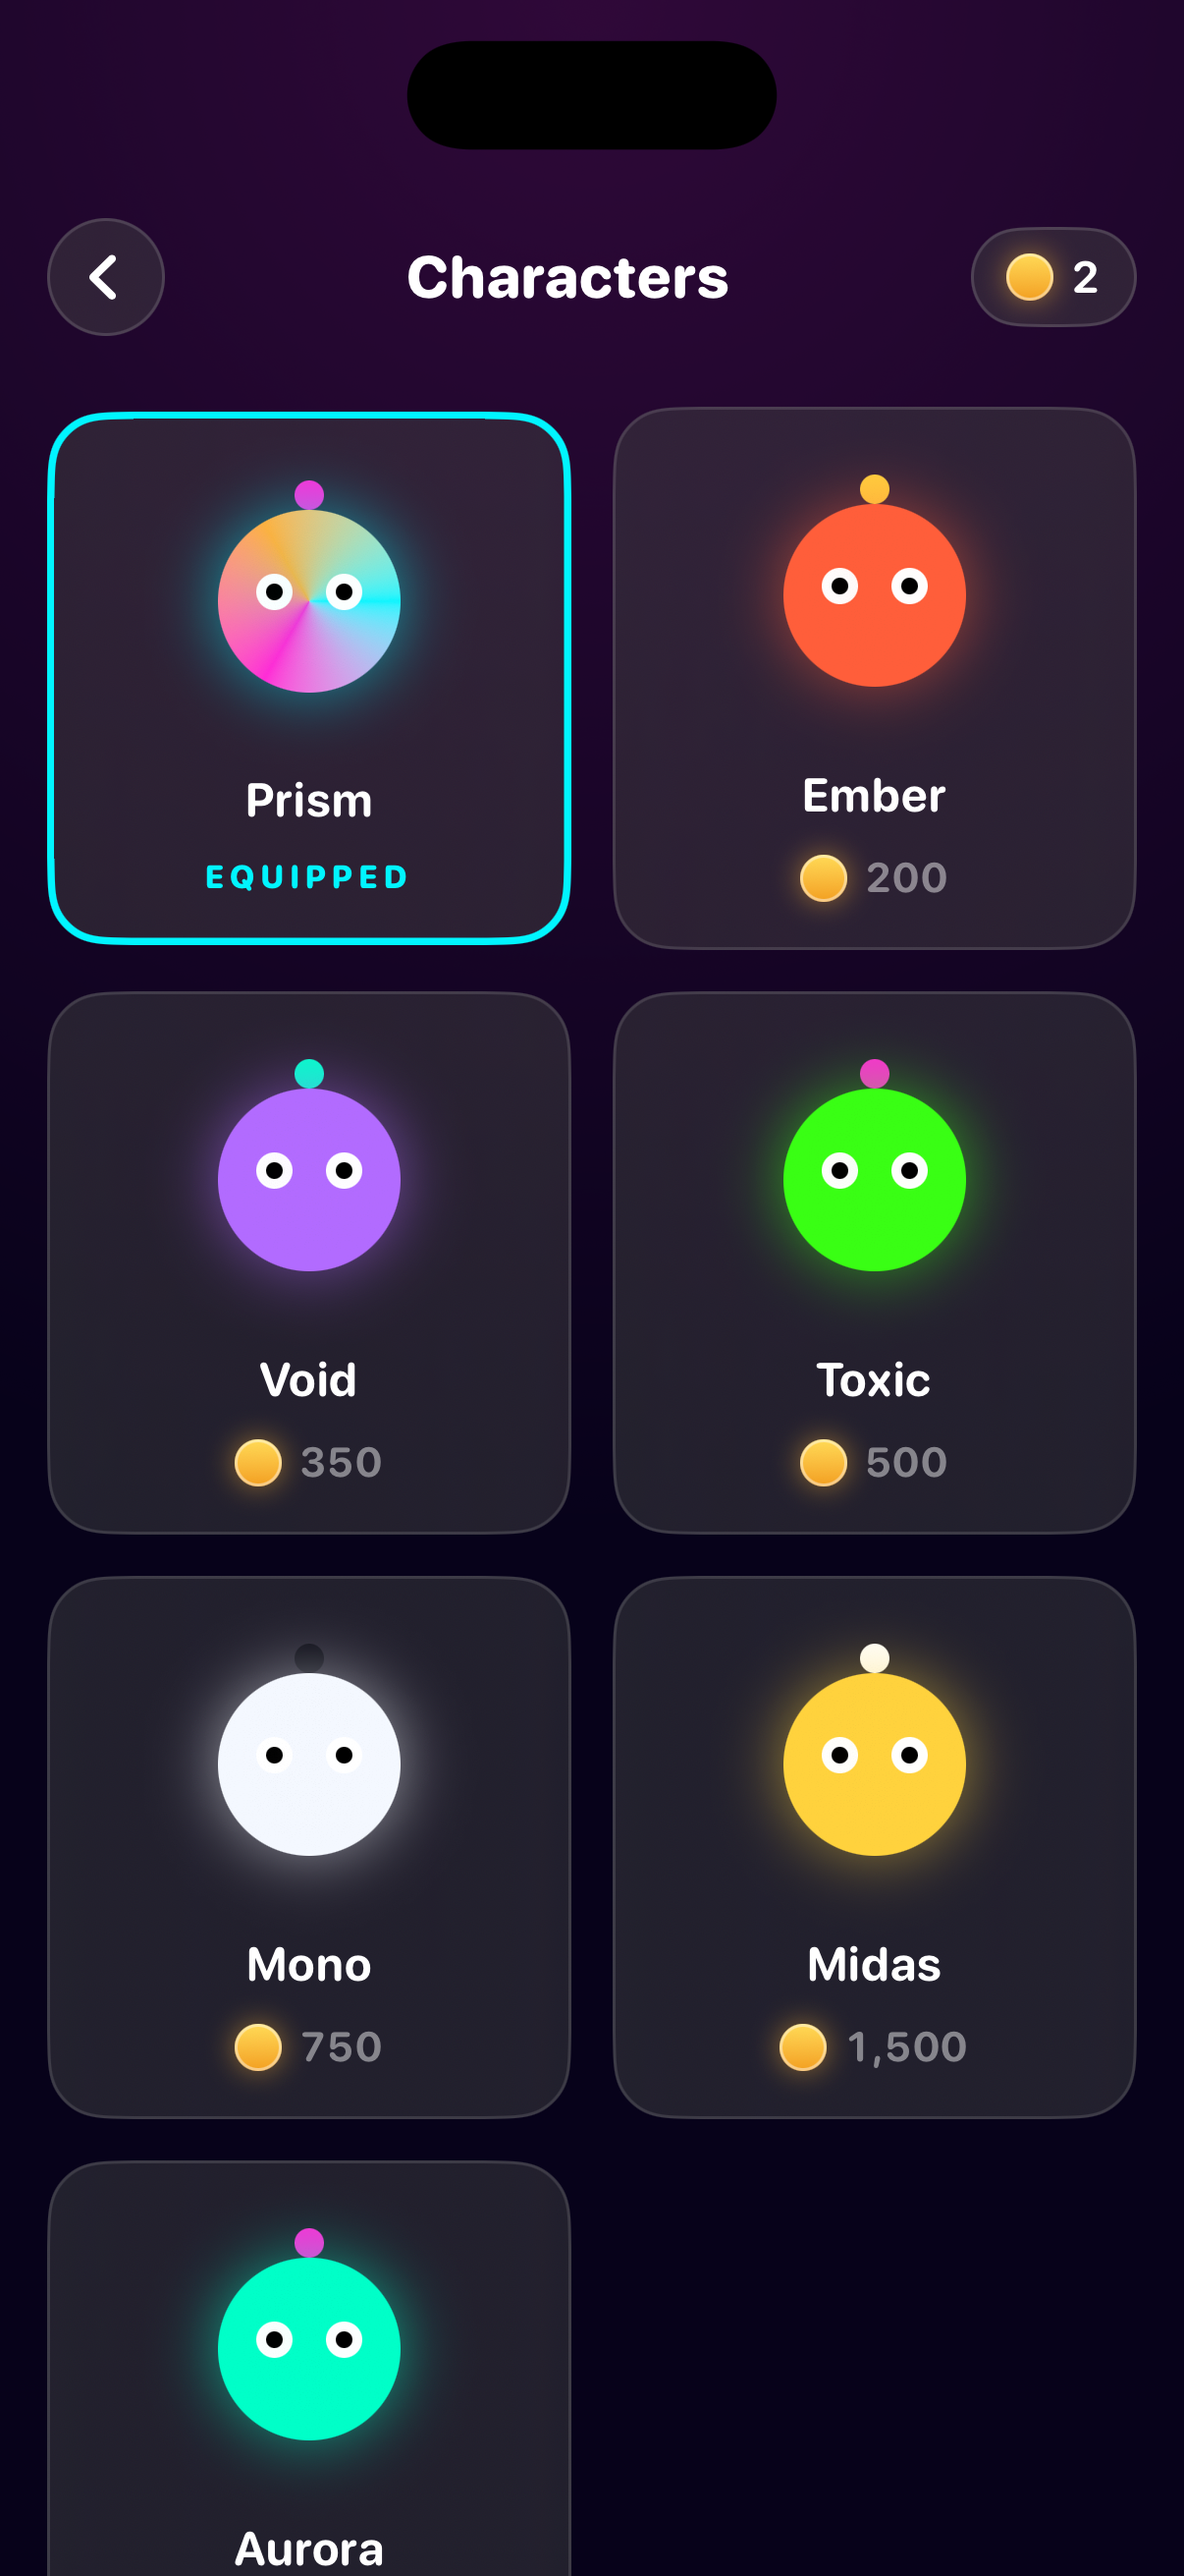
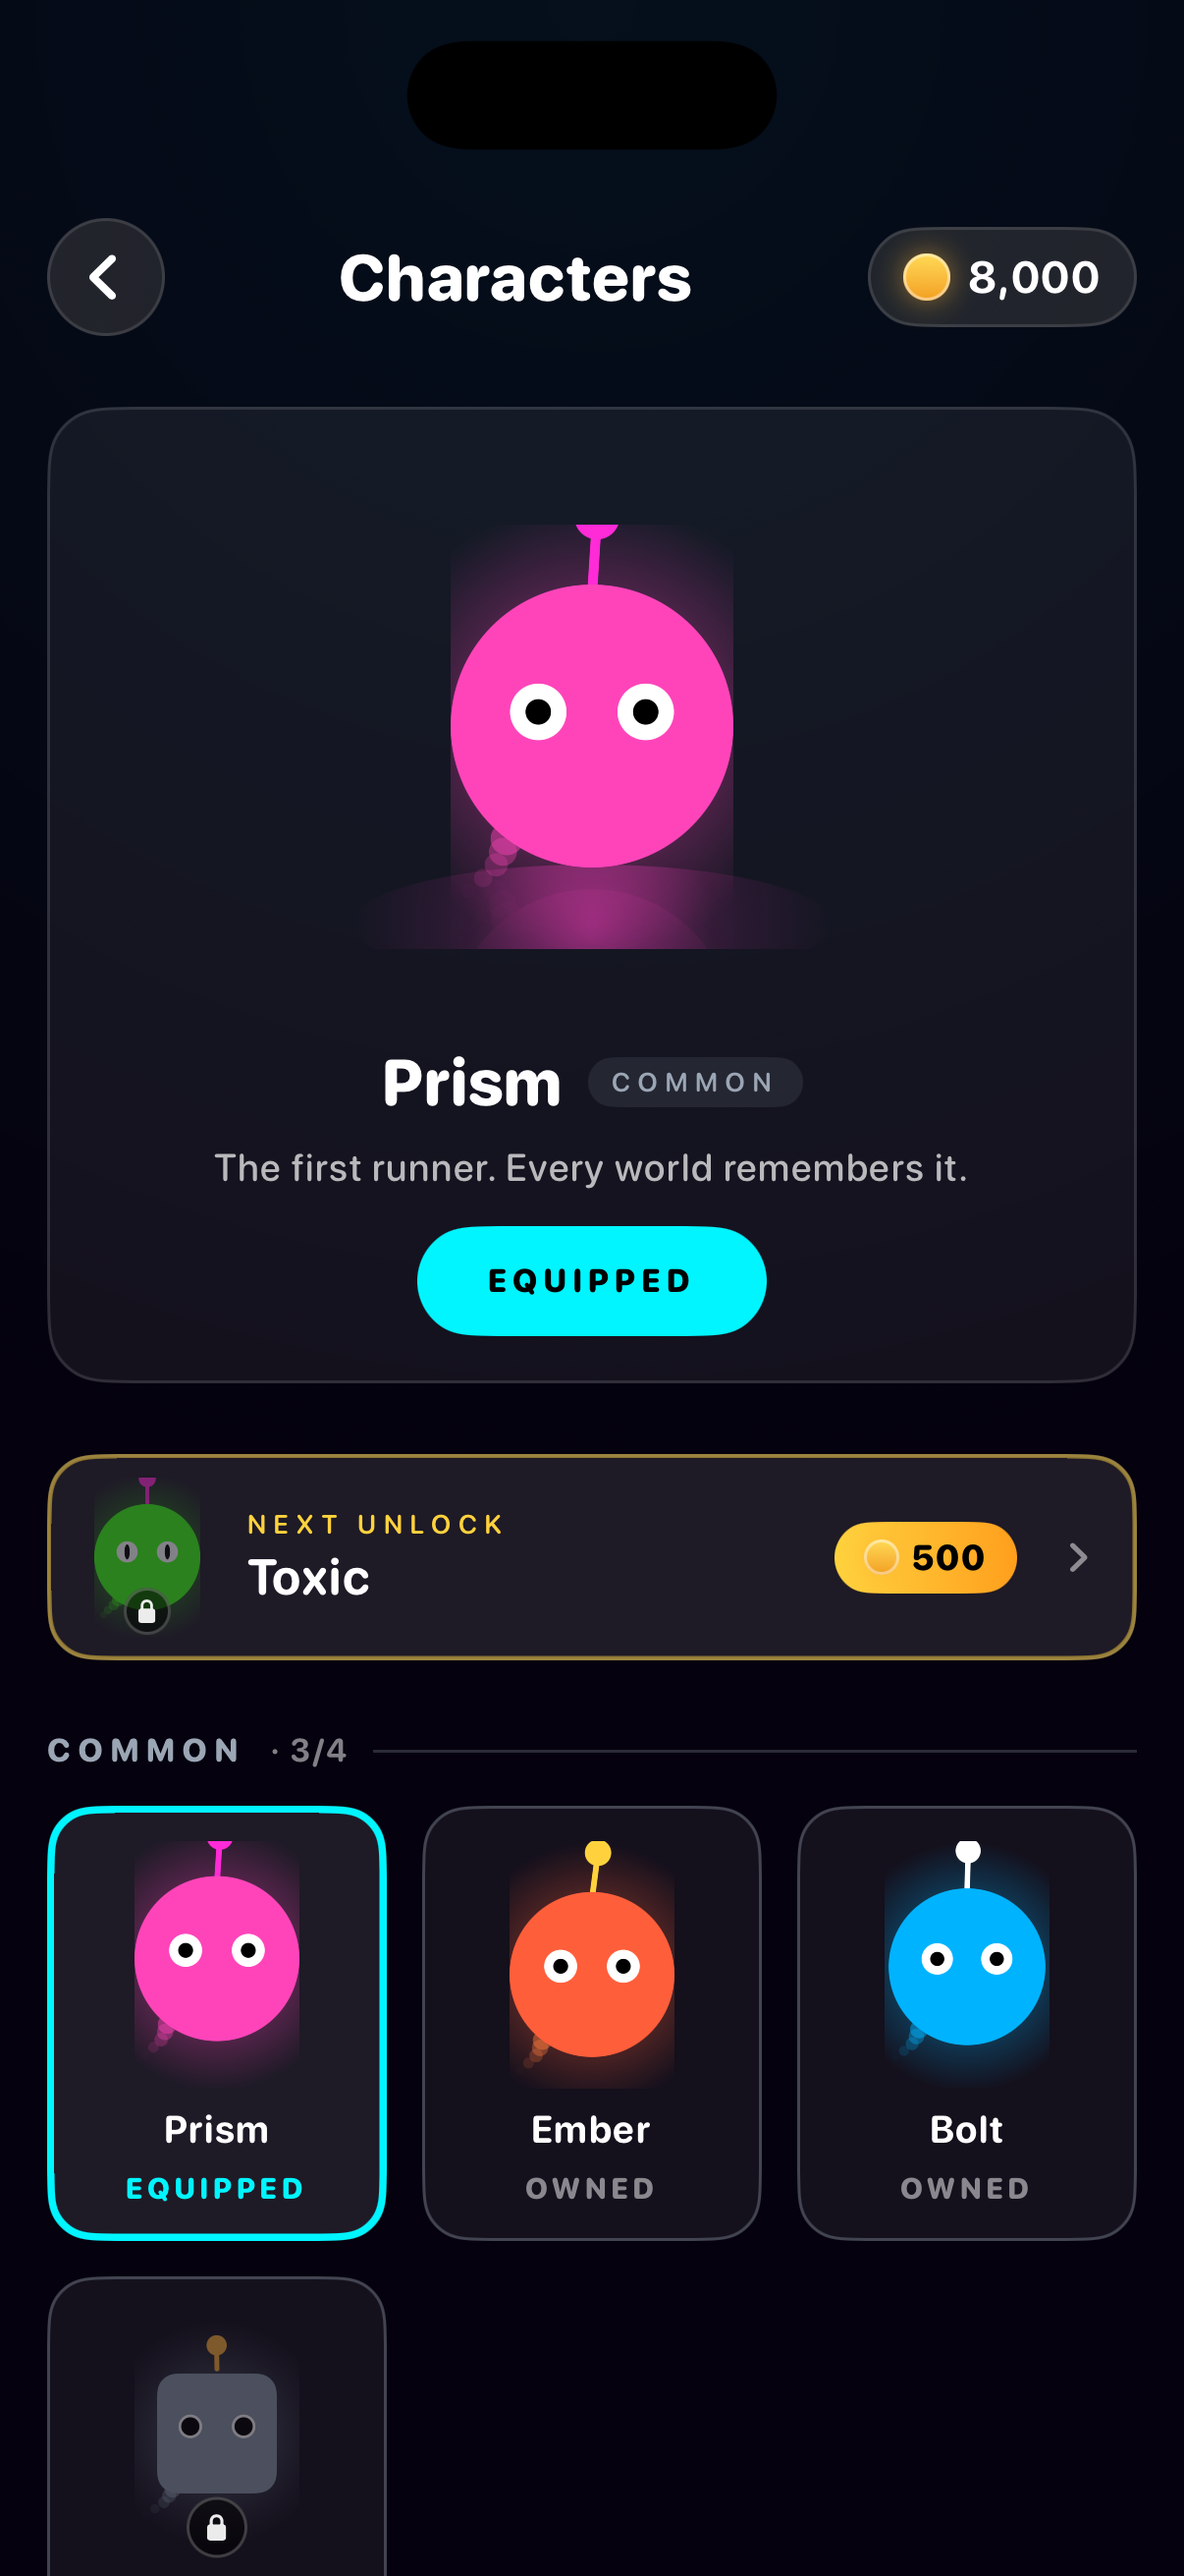
docs(v1.4.3): refresh test counts (174), 24-roster characters shot, state.md final
- README + ci.sh test counts -> 174/174 (163 unit + 11 XCUITest) after this
  session's +16 unit tests (15 ShopValue + 1 deep-cycle music).
- Re-captured docs/screenshots/11_characters.png against current main (24-roster
  characters screen) + caption '7 procedural skins' -> '24 procedural characters'.
- state.md: v1.4.3 plan all 8 steps marked done with the final gate result.

diff --git a/state.md b/state.md
@@ -11,14 +11,21 @@ no spawn-RNG consumption, `DailyChallenge.layoutVersion` unchanged (the sim is u
 
 | Step | Scope | Status |
 |---|---|---|
-| 1 | Doc/claim fixes: README test split (147+11), IAP 5→7, "zero hand-authored binary assets", "material-allocation-free"; `ci.sh` stale Phase-2 comment deleted; SUPERSEDED banners on `AGENT_docs.md` (privacy) + `AGENT_wiring.md` (daily board) | ✅ done |
-| 2 | **The worlds — distance-driven evolution** (M1): palette/decor/sky/music keyed off absolute `worldOrdinal`, not `% 3`; `min(cycle,2)` clamps removed; per-cycle hue rotation + richening; WorldPreviewCanvas mirrored | ⏳ |
-| 3 | macOS CI job (build app + unit bundle on macos-latest) | ⏳ |
-| 4 | Cheap test gaps: IAPManager value-badge math + availability transitions; pure view-logic helpers | ⏳ |
-| 5 | Dynamic Type: ProfileView/HowToPlayView/PauseOverlay → typeScale | ⏳ |
-| 6 | Solvability deep-soak seed count raise | ⏳ |
-| 7 | heroShell generic (M6); revive() power-up inconsistency (L1); Apple user id → Keychain (L3) | ⏳ |
-| 8 | Re-capture README screenshots (Mac-only) | ⏳ |
+| 1 | Doc/claim fixes: README test split (147+11), IAP 5→7, "zero hand-authored binary assets", "material-allocation-free"; `ci.sh` stale Phase-2 comment deleted; SUPERSEDED banners on `AGENT_docs.md` (privacy) + `AGENT_wiring.md` (daily board) | ✅ `4b9..` |
+| 2 | **The worlds — distance-driven evolution** (M1): `Theme.evolvedPalette(ordinal:)` (hue-rotate ~49°/cycle + intensify + cycle-tier name) drives playfield/decor/previews/UI; `WorldSky` re-tint registry recolors set pieces per cycle at each boundary; `min(cycle,N)` clamps removed; `Synth.step` layers voices by cycle (fed `worldOrdinal`). Cycle 0 byte-identical. Evidence `reports/shots/v143/` (Caverns w1→4→7 teal→blue→violet). SPM 145✓, Mac BUILD OK. **No Core/ edits, no RNG, layoutVersion unchanged.** | ✅ 3 commits |
+| 3 | macOS CI job (`.github/workflows/ios-build.yml`): macos-15, newest Xcode, xcodegen, `build-for-testing` (generic iOS Simulator — compiles renderer/audio/SwiftUI/StoreKit) + `PrismRushTests` unit bundle. Locally validated (`build-for-testing` → TEST BUILD SUCCEEDED); first push confirms the hosted runner. | ✅ |
+| 4 | Pure `Meta/ShopValue.swift` (added to Package.swift): `coinsPerUnit`/`badge`, `featuredSkin`, `StoreState`+`StoreAvailability.afterLoad/afterThrow`. ShopView/IAPManager delegate (`Availability` = typealias). 15 Linux tests in `ShopValueTests`. | ✅ |
+| 5 | Dynamic Type: `@ScaledMetric`-backed `Theme.scaledFont(size:weight:design:)`; all 35 hardcoded `.system(size:)` in ProfileView/HowToPlay/Pause migrated (copySize left to avoid double-scale). | ✅ |
+| 6 | Deep solvability soak 10 → 64 seeds × 12,000 m (still ~5 s, bot green). | ✅ |
+| 7 | `heroShell` generic (10 AnyView dropped); `revive()` comment honest (boost/flow reset, magnet/doubler/chrono carry over by design); Apple id + name → Keychain (`Services/Keychain.swift`, one-time UserDefaults migration). | ✅ |
+| 8 | Re-captured `docs/screenshots/11_characters.png` (current 24-roster) + caption fix; deep-world evolution evidence in `reports/shots/v143/`. Full curated 13-shot walkthrough re-capture left as optional polish (cycle-0 worlds unchanged so existing world shots stay accurate). | ✅ (partial) |
+
+**Final gate (v1.4.3):** Full Mac `xcodebuild test` → **TEST SUCCEEDED, 174/174** (163 unit + 11
+XCUITest, iPhone 17 Pro · iOS 26.5). SPM `swift test -c release` 160 green incl. 200-seed bot + the
+widened 64-seed deep soak. Mac `./Tools/build.sh` BUILD OK. **No Core/ sim-logic change, no spawn
+RNG consumed, `DailyChallenge.layoutVersion` unchanged** — the worlds work is purely visual/audio.
+Outstanding (human-only): the on-device feel pass (§v1.3 checklist) + App Store Connect gates
+(`docs/SHIP_CHECKLIST.md`); the new macOS CI job's first hosted run to confirm the runner toolchain.
 
 ## v1.4.2 — owner decrees enforced (AUDIT_intent fix fleet, 2026-06-11)
 The six owner decrees landed in `CLAUDE.md` (product law, overriding every design doc) together

diff --git a/README.md b/README.md
@@ -66,7 +66,7 @@ checkpoints, secure accounts, and friends competition — driven by an `@Observa
 
 <table>
 <tr>
-<td align="center"><img src="docs/screenshots/11_characters.png" width="200"><br><sub><b>Characters</b><br>Buy/equip 7 procedural skins with coins</sub></td>
+<td align="center"><img src="docs/screenshots/11_characters.png" width="200"><br><sub><b>Characters</b><br>Buy/equip 24 procedural characters (rarity tiers, coin/level/IAP unlocks)</sub></td>
 <td align="center"><img src="docs/screenshots/12_shop.png" width="200"><br><sub><b>Shop</b><br>StoreKit 2 IAP — coin packs, Double Coins, premium skin</sub></td>
 <td align="center"><img src="docs/screenshots/13_worlds.png" width="200"><br><sub><b>Worlds</b><br>Checkpoint start from any reached world</sub></td>
 </tr>
@@ -233,7 +233,7 @@ calmer first run (tutorial gate covers every run entrance, the info X never forc
 WORLDS card teaches the 800 m transition, tutorial numbers derive from `Tuning` so a retune can't
 strand the copy).
 
-**Verification:** `./Tools/ci.sh` **158/158** (147 unit + 11 XCUITest) · evidence in
+**Verification:** `./Tools/ci.sh` **174/174** (163 unit + 11 XCUITest) · evidence in
 [`reports/shots/v14/`](reports/shots/v14/), `v141/`, `v142/` (incl. one autoplay run crossing the
 800 m crossfade with Prism's shimmer — never the world accent — on both sides).
 
@@ -292,7 +292,7 @@ PrismRush/
             Autopilot, DailyChallenge        Meta/            Profile, ProfileStore, Skin/MissionCatalog
   Audio/    Synth (pure DSP), SynthEngine,   IAP/             IAPCatalog, IAPManager (StoreKit 2)
             Music                            Services/        GameCenter, Account, Haptics
-Tests/CoreTests/  147 deterministic tests (most also run on Linux via Package.swift)   UITests/  11 XCUITests
+Tests/CoreTests/  163 deterministic tests (most also run on Linux via Package.swift)   UITests/  11 XCUITests
 Tools/  build / ci / qa / screenshots / gen_icon
 ```
 
@@ -346,7 +346,7 @@ Watch the engine play itself (used for the screenshots above):
 SIMCTL_CHILD_PR_AUTOPLAY=1 xcrun simctl launch booted com.rayancheca.prismrush
 ```
 
-Run the full test suite — 158 on a Mac (147 unit incl. the 200-seed solvability bot and a 10-seed
+Run the full test suite — 174 on a Mac (163 unit incl. the 200-seed solvability bot and a 10-seed
 12,000 m deep soak, + 11 XCUITest interaction tests):
 
 ```bash
